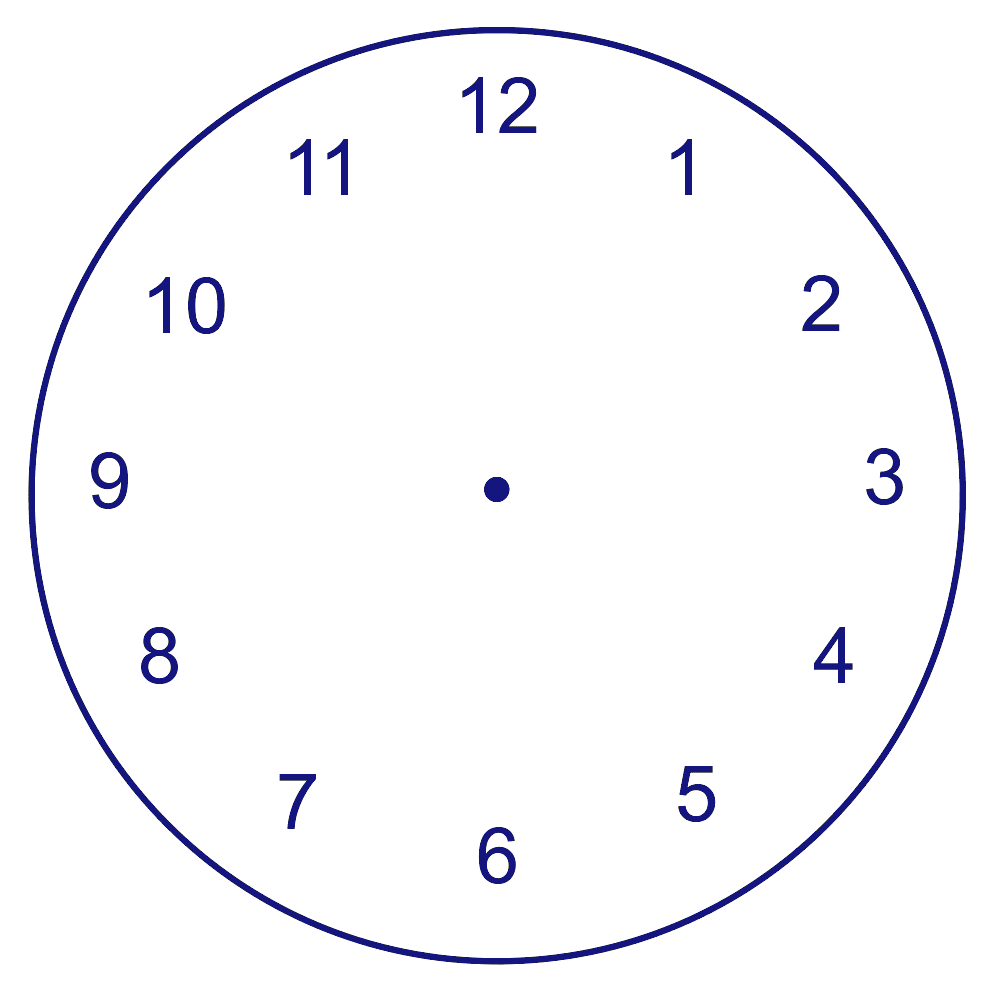
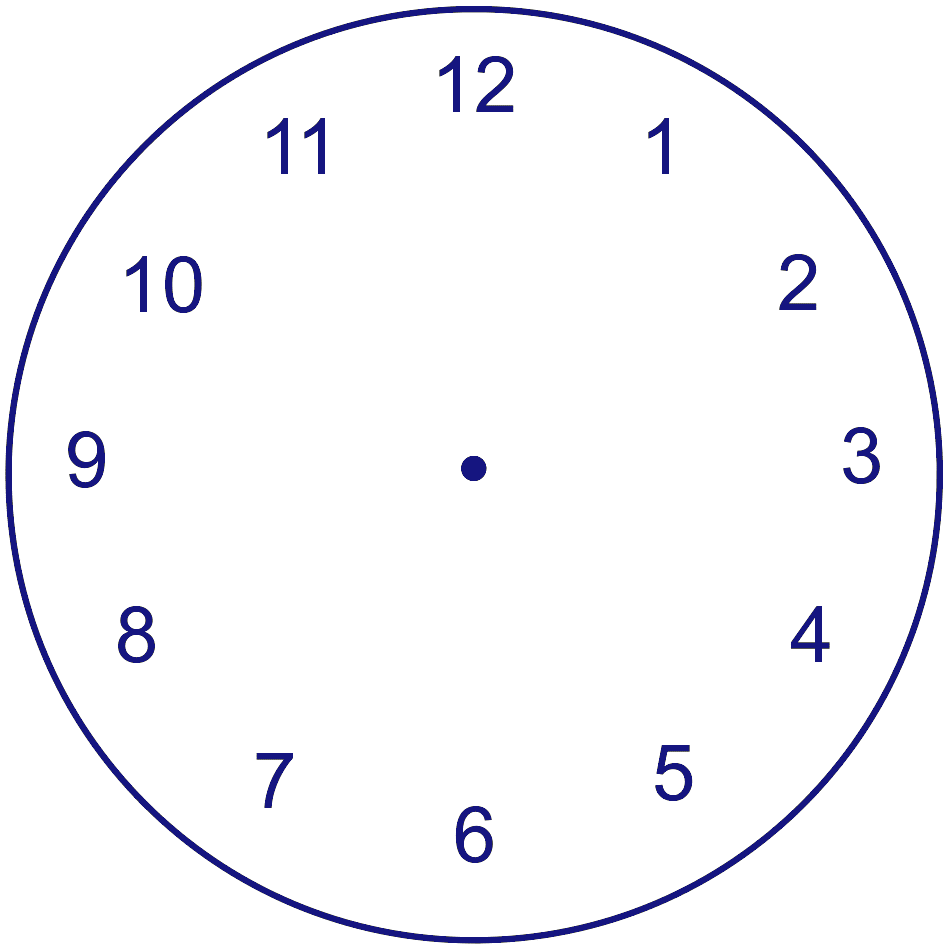
Edit after review

diff --git a/src/styles/blocks/watch.scss b/src/styles/blocks/watch.scss
@@ -3,45 +3,28 @@
   height: $watch-size;
   width: $watch-size;
   justify-content: center;
-  background-image: url("../images/clockface.png");
+  background-image: url("../images/clockface_nocircle.png");
   background-position: center;
   background-size: cover;
   border: $watch-border-size solid $watch-color-secondary;
   border-radius: 50%;
 
   &__minutes {
-    position: absolute;
-    top: 12.5%;
-    height: 37.5%;
-    width: 4.5%;
-    background-color: $watch-color-main;
-    border-radius: 5px;
+    @include position(12.5%, 37.5%, 4.5%);
+    @include design($watch-color-main, 5px);
     animation: time 3600s linear infinite;
     transform-origin: bottom center;
   }
 
   &__seconds {
-    position: absolute;
-    top: 5%;
-    height: 45%;
-    width: 2.5%;
-    background-color: $watch-color-main;
-    border-radius: 3px;
+    @include position(5%, 45%, 2.5%);
+    @include design($watch-color-main, 3px);
     animation: time 60s linear infinite;
     transform-origin: bottom center;
   }
 
   &__center {
-    position: absolute;
-    top: 46.25%;
-    height: 7.5%;
-    width: 7.5%;
-    background-color: $watch-color-main;
-    border-radius: 50%;
+    @include position(46.25%, 7.5%, 7.5%);
+    @include design($watch-color-main, 50%);
   }
-}
-
-.watch--position {
-  position: relative;
-  margin: auto;
 }

diff --git a/src/index.html b/src/index.html
@@ -2,17 +2,23 @@
 <html lang="en">
   <head>
     <meta charset="UTF-8">
-    <meta name="viewport"
-      content="width=device-width, user-scalable=no, initial-scale=1.0, maximum-scale=1.0, minimum-scale=1.0">
+    <meta
+      name="viewport"
+      content="width=device-width, user-scalable=no, initial-scale=1.0, maximum-scale=1.0, minimum-scale=1.0"
+    >
     <meta http-equiv="X-UA-Compatible" content="ie=edge">
     <title>Stop watch</title>
     <link rel="stylesheet" href="./styles/main.scss">
   </head>
   <body>
-    <div class="watch watch--position">
-      <div class="watch__center"></div>
-      <div class="watch__minutes"></div>
-      <div class="watch__seconds"></div>
+    <div class="page">
+      <div class="page__watch">
+        <div class="watch">
+          <div class="watch__center"></div>
+          <div class="watch__minutes"></div>
+          <div class="watch__seconds"></div>
+        </div>
+      </div>
     </div>
   </body>
 </html>

diff --git a/src/styles/utils/_mixins.scss b/src/styles/utils/_mixins.scss
@@ -1,0 +1,11 @@
+@mixin position($top, $height, $width) {
+  position: absolute;
+  top: $top;
+  height: $height;
+  width: $width;
+}
+
+@mixin design($back-color, $border-radius) {
+  background-color: $back-color;
+  border-radius: $border-radius;
+}

diff --git a/src/styles/main.scss b/src/styles/main.scss
@@ -1,4 +1,6 @@
 @import "./utils/variables";
+@import "./utils/mixins";
 @import "./utils/animation";
 
-@import "./blocks/watch.scss";
+@import "./blocks/page";
+@import "./blocks/watch";

diff --git a/src/styles/blocks/page.scss b/src/styles/blocks/page.scss
@@ -1,0 +1,8 @@
+.page {
+  display: flex;
+
+  &__watch {
+    position: relative;
+    margin: auto;
+  }
+}
